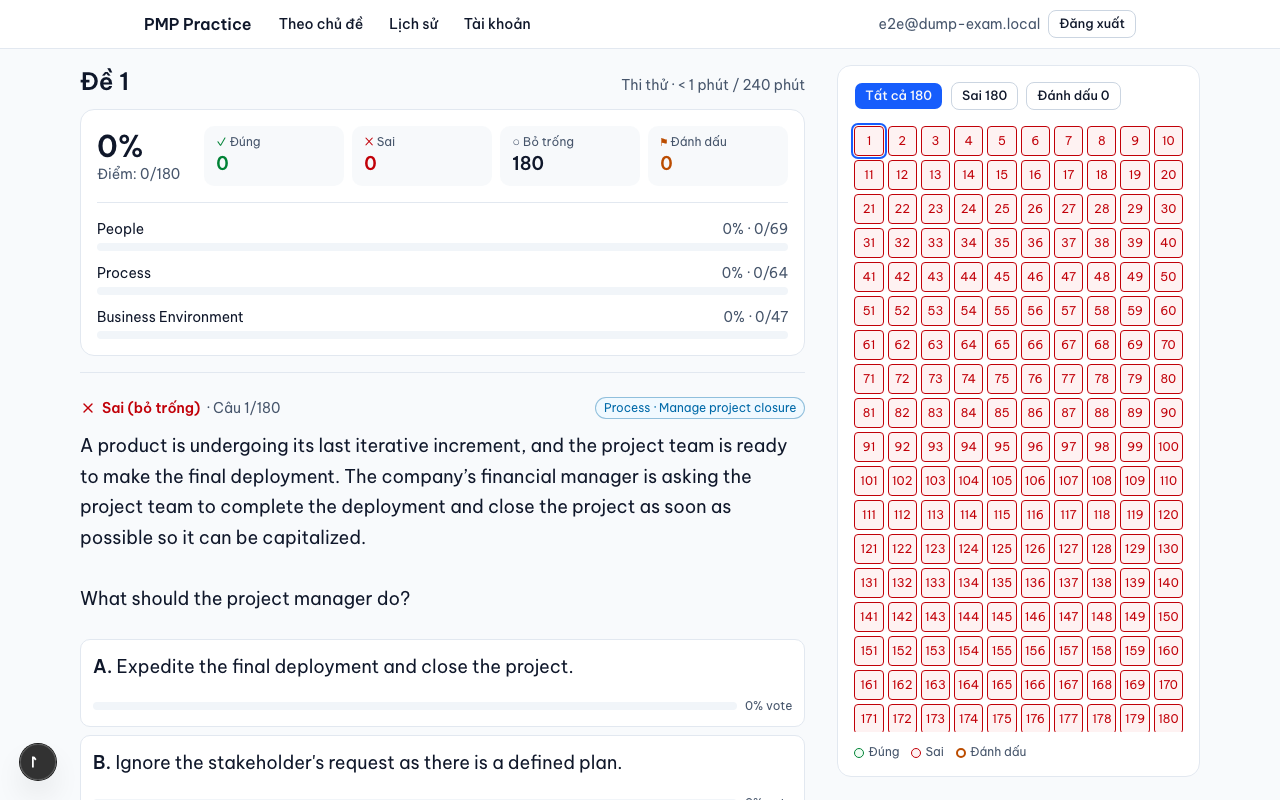
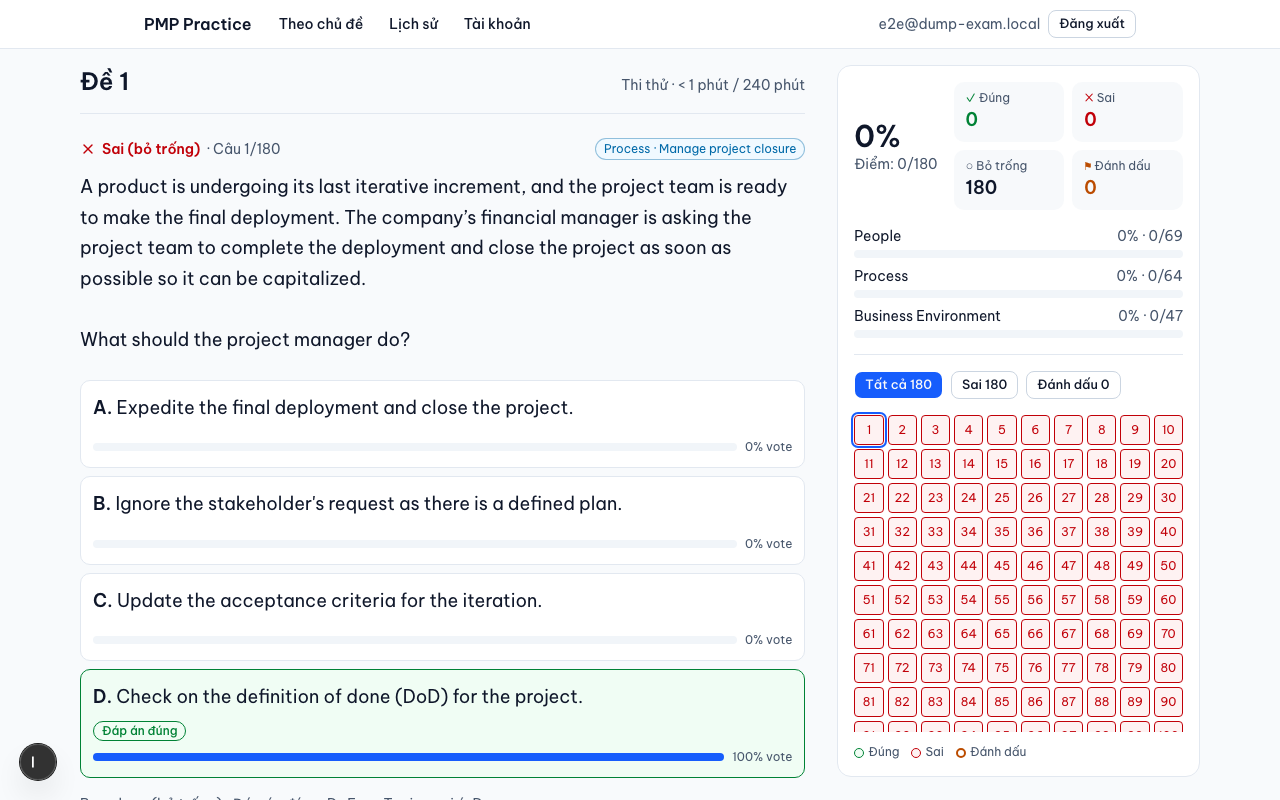
feat(result): move the summary to the side column and grid drawer

diff --git a/app/attempts/[id]/question-layout.tsx b/app/attempts/[id]/question-layout.tsx
@@ -37,7 +37,7 @@ export function QuestionLayout(props: {
   meta?: React.ReactNode; // line 1, right-aligned
   figure?: React.ReactNode; // line 2
   stats?: React.ReactNode; // line 3, see Stats
-  summary?: React.ReactNode; // Result: replaces lines 2-3, and line 1 drops "Câu N/M" (the Question shows it)
+  summary?: React.ReactNode; // Result: top of the side column / grid drawer; the header keeps line 1 (no "Câu N/M") and, on mobile, `figure`
   tabs?: React.ReactNode; // Result: above the grid on desktop, below line 3 on mobile
   pos: number;
   total: number;
@@ -124,6 +124,7 @@ export function QuestionLayout(props: {
             <SheetHeader className="px-0 pb-0">
               <SheetTitle>Lưới câu</SheetTitle>
             </SheetHeader>
+            {props.summary && <div className="border-b pb-3">{props.summary}</div>}
             {props.side}
             {grid}
             {props.footer}
@@ -139,10 +140,10 @@ export function QuestionLayout(props: {
               {props.meta && <p className="shrink-0 text-sm text-muted-foreground">{props.meta}</p>}
             </div>
             {props.summary ? (
-              <>
-                {props.meta && <p className="text-sm text-muted-foreground lg:hidden">{props.meta}</p>}
-                <div className="mt-3">{props.summary}</div>
-              </>
+              <div className="flex items-baseline justify-between gap-3 lg:hidden">
+                <p className="whitespace-nowrap font-medium tabular-nums">{props.figure}</p>
+                {props.meta && <p className="shrink-0 text-sm text-muted-foreground">{props.meta}</p>}
+              </div>
             ) : (
               <>
                 <div className="flex items-baseline justify-between gap-3 lg:mt-1">
@@ -167,6 +168,7 @@ export function QuestionLayout(props: {
         <aside className="hidden lg:block">
           <div className="sticky top-4 flex max-h-[calc(100dvh-5.5rem)] flex-col gap-4 rounded-xl border bg-card p-4">
             {props.timer}
+            {props.summary && <div className="border-b pb-4">{props.summary}</div>}
             {props.side}
             {props.tabs}
             {grid}

diff --git a/app/attempts/[id]/result-screen.tsx b/app/attempts/[id]/result-screen.tsx
@@ -75,14 +75,15 @@ export function ResultScreen(props: { title: string; drill: boolean; domains: { 
     <QuestionLayout
       title={props.title}
       meta={props.timed ? `Thi thử · ${formatDuration(props.durationSec)} / ${TIME_LIMIT_MIN} phút` : `${props.drill ? "Ôn" : "Luyện tập"} · ${formatDuration(props.durationSec)}`}
+      figure={`Điểm: ${props.score}/${total} (${pct}%)`}
       summary={
-        <section aria-label="Tóm tắt" className="rounded-xl border bg-card p-4">
-          <div className="flex flex-wrap items-center gap-x-6 gap-y-3">
+        <section aria-label="Tóm tắt">
+          <div className="flex flex-wrap items-center gap-x-4 gap-y-3">
             <div>
               <p className="text-3xl font-semibold tabular-nums">{pct}%</p>
               <p className="text-sm text-muted-foreground tabular-nums">Điểm: {props.score}/{total}</p>
             </div>
-            <dl className="grid min-w-0 flex-1 grid-cols-2 gap-2 sm:grid-cols-4">
+            <dl className="grid min-w-0 flex-1 grid-cols-2 gap-2">
               {[
                 { glyph: "✓", label: "Đúng", n: total - wrongTab, tone: "text-correct" },
                 { glyph: "✗", label: "Sai", n: wrongTab - blank, tone: "text-wrong" },
@@ -97,7 +98,7 @@ export function ResultScreen(props: { title: string; drill: boolean; domains: { 
             </dl>
           </div>
           {props.domains.length > 0 && (
-            <ul className="mt-4 flex flex-col gap-3 border-t pt-4">
+            <ul className="mt-4 flex flex-col gap-2">
               {props.domains.map((d) => {
                 const p = Math.round((d.correct / d.total) * 100);
                 return (

diff --git a/e2e/screenshots.spec.ts b/e2e/screenshots.spec.ts
@@ -178,8 +178,12 @@ test.describe("screenshots dp04", () => {
       if (name === "mobile") await page.getByRole("button", { name: "Lưới câu" }).click(); // Submit lives in the drawer
       await page.getByRole("button", { name: "Nộp bài" }).filter({ visible: true }).click();
       await page.getByRole("dialog").getByRole("button", { name: "Nộp bài" }).last().click();
-      await page.getByRole("meter", { name: /^People \d+%$/ }).waitFor();
+      await page.getByText(/^Điểm: /).filter({ visible: true }).first().waitFor();
       await page.screenshot({ path: `.scratch/domain-practice/screenshots/04-${name}.png` });
+      if (name === "mobile") await page.getByRole("button", { name: "Lưới câu" }).click(); // the summary lives in the drawer
+      await page.getByRole("meter", { name: /^People \d+%$/ }).filter({ visible: true }).waitFor();
+      if (name === "mobile") await page.waitForTimeout(500); // let the drawer finish sliding in
+      if (name === "mobile") await page.screenshot({ path: `.scratch/domain-practice/screenshots/04-mobile-drawer.png` });
       await page.context().close();
     });
   }
